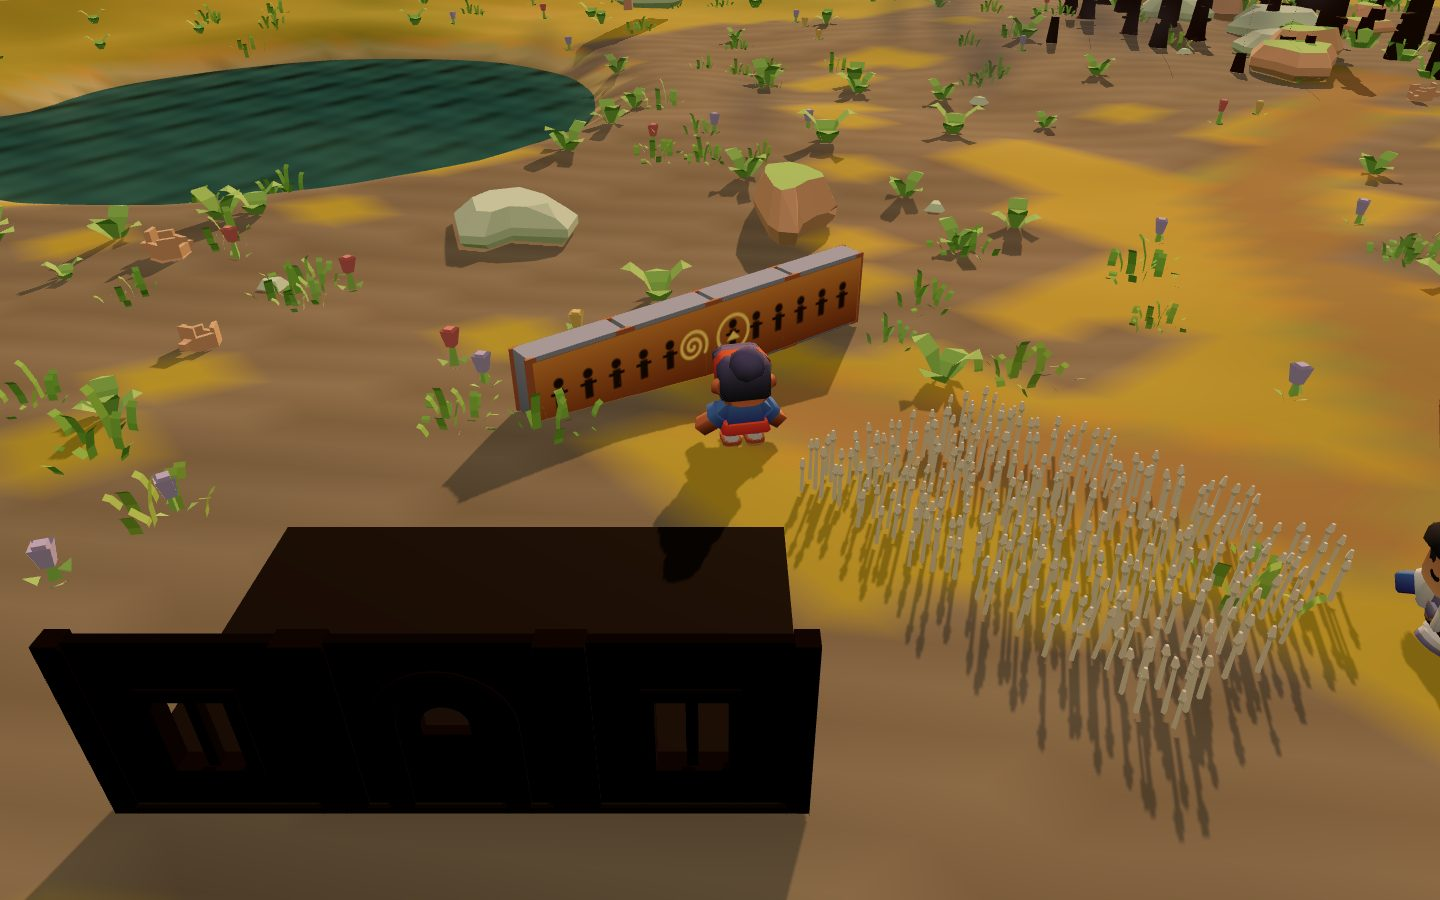
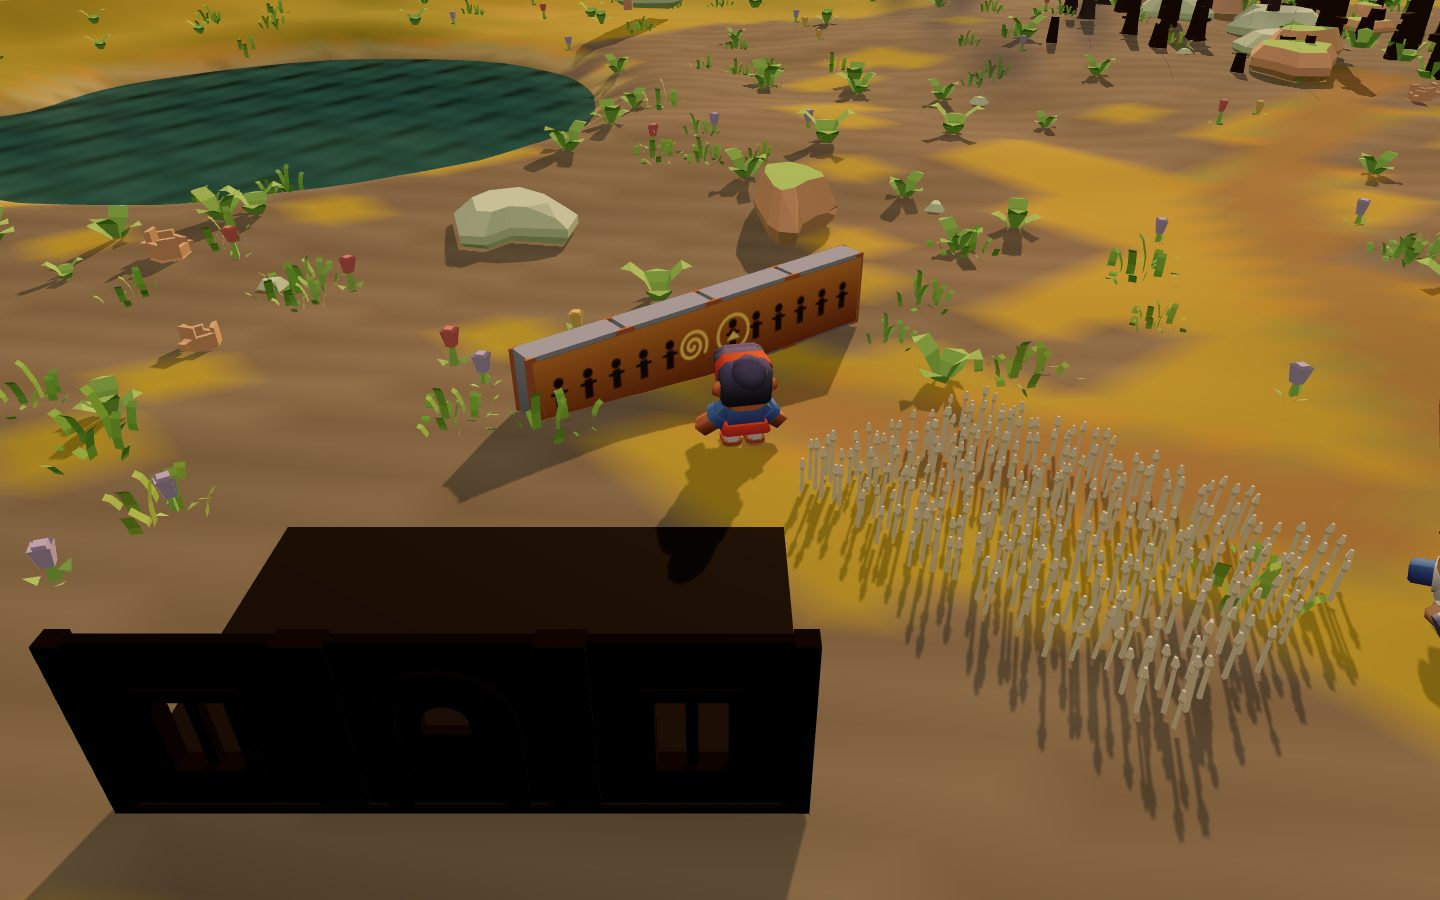
WIP: m3-3 protects a standing house (the day-5 wildfire can take house 2 first); BUILD_PROGRESS.md

Changed region(s): [[0.9688, 0.5911, 1.0, 0.7467], [0.5, 0.3733, 0.5625, 0.4978]]

diff --git a/game/e2e/m3.spec.ts b/game/e2e/m3.spec.ts
@@ -114,7 +114,7 @@ test("m3-2 the shrine: the hand carries the bell stone to the altar, the Rain gl
 
 test("m3-3 the painted wall: believing villagers paint it, the god studies it, and Sanctuary shields a house from fire", async ({ page }) => {
   await boot(page);
-  // The villagers paint as they pray; let the days run (bounded at 4 days).
+  // The villagers paint as they pray; let the days run (bounded at 8 days; the day-5 wildfire may strike meanwhile).
   let v = await village(page);
   let days = 0;
   while (v.mural.progress < 1 && days < 8) {
@@ -130,17 +130,20 @@ test("m3-3 the painted wall: believing villagers paint it, the god studies it, a
   await page.mouse.move(m.x, m.y);
   await waitFor(page, `window.__parable.village().learned.includes("sanctuary")`, 60_000);
   const learned = await village(page);
-  // A wildfire comes at house 2; raise Sanctuary over it first.
+  // A wildfire comes at a standing house; raise Sanctuary over it first.
+  const pre = await village(page);
+  const house = pre.houses.find((x: P) => x.state === "standing" && x.id !== 0) ?? pre.houses.find((x: P) => x.state === "standing");
   await hook(page, "setPower", 100);
-  await hook(page, "setDay", 8, 0.2);
-  await hook(page, "setCamera", { tx: 5, tz: 30, yaw: 0.6, dist: 36 });
+  await hook(page, "setDay", 8, 0.6);
+  await hook(page, "setCamera", { tx: house.x, tz: house.z + 3, yaw: 0.6, dist: 36 });
   await frames(page, 3);
-  const h = await hook<{ x: number; y: number }>(page, "groundScreen", 5, 27);
+  const h = await hook<{ x: number; y: number }>(page, "groundScreen", house.x, house.z);
   await ritual(page, h.x, h.y, ringPts(h.x, h.y, 90));
   await waitFor(page, `window.__parable.village().sanctuaries.length > 0`, 20_000);
-  const sanct = (await village(page)).sanctuaries[0];
-  await hook(page, "igniteAt", 5, 40, 3);
-  await hook(page, "igniteAt", -6, 27, 3);
+  const atCast = await village(page);
+  const sanct = atCast.sanctuaries[0];
+  await hook(page, "igniteAt", house.x, house.z + 13, 3);
+  await hook(page, "igniteAt", house.x - 11, house.z, 3);
   await hook(page, "stepTicks", 200);
   await frames(page, 4);
   await shot(page, "m3-03-sanctuary-holds-the-fire");
@@ -148,11 +151,12 @@ test("m3-3 the painted wall: believing villagers paint it, the god studies it, a
   const after = await village(page);
   const ss: P[] = await hook(page, "settlers");
   const causes = ss.flatMap((s) => s.belief.causes.map((c: P) => `${s.name}: ${c.text}`));
-  writeResult("m3-03-mural-sanctuary", { daysToPaint: days, mural: v.mural, learned: learned.learned, sanctuary: sanct, houses: after.houses, causes });
+  writeResult("m3-03-mural-sanctuary", { daysToPaint: days, mural: v.mural, learned: learned.learned, protected: house, sanctuary: sanct, housesAtCast: atCast.houses, houses: after.houses, causes, log: (await state(page)).log.filter((l: string) => /house|lightning|ignite|sanctuary/.test(l)) });
   expect(v.mural.progress).toBeGreaterThanOrEqual(1);
   expect(learned.learned).toContain("sanctuary");
-  expect(Math.hypot(sanct.x - 5, sanct.z - 27)).toBeLessThan(6);
-  expect(after.houses.find((x: P) => x.id === 2).state).toBe("standing");
+  expect(Math.hypot(sanct.x - house.x, sanct.z - house.z)).toBeLessThan(6);
+  expect(atCast.houses.find((x: P) => x.id === house.id).state).toBe("standing");
+  expect(after.houses.find((x: P) => x.id === house.id).state).toBe("standing");
   expect(causes.some((c) => /sanctuary/.test(c))).toBe(true);
 });
 

diff --git a/game/src/main.ts b/game/src/main.ts
@@ -896,7 +896,7 @@ async function boot(): Promise<void> {
         learned: world.learned.slice(),
         food: world.granary.food,
         woodpile: world.woodpile.count,
-        houses: world.houses.map((h) => ({ id: h.id, state: h.state })),
+        houses: world.houses.map((h) => ({ id: h.id, state: h.state, x: h.x, z: h.z })),
         sites: world.sites.map((x) => ({ id: x.id, have: x.have, need: x.need, work: x.work, done: x.done })),
         felled: world.felled.length,
         clouds: world.clouds.map((c) => ({ id: c.id, x: c.x, z: c.z, held: c.held, ttl: c.ttl })),

diff --git a/game/BUILD_PROGRESS.md b/game/BUILD_PROGRESS.md
@@ -1,0 +1,27 @@
+# Build progress (M2 → ten miracles + golems) (handoff note — update every push)
+
+Branch `feat/m1-hand-camera-fireball` (PR #1). Never push to main, never force-push. No creatures/golems.
+
+## Done
+- 0d635c8 Stage 1: village sim (12 settlers, needs, jobs, relationships, memories, belief causes),
+  Dry Year (drought, wind, day-5 lightning, fire crisis, burn/ruin/rebuild), Rain via shrine + bell stone,
+  Sanctuary via mural, temple plaques/brazier/records, end card + restart. 35 unit tests; M1 e2e 8/8 in `&scenario=solo`.
+- e2e specs written: e2e/m2.spec.ts, m3.spec.ts, m4.spec.ts.
+- m2-1..m2-4 PASS, m3-1..m3-4 PASS (each run individually; full gate not yet re-run).
+- Scope expanded by the user: TEN miracles + GOLEM system (no creature). Gestures for all ten done
+  (spiral then: zigzag Fireball, wave Rain, ring Sanctuary, V Heal, line-down Lightning, line-up Fertility,
+  line-side Wind, square Stone, ^ Beacon, triangle Golem Wake) with unit tests.
+- Sim for heal/lightning/fertility/wind/stone/beacon + glyph stones (rituals wake them) in src/sim/miracles.ts.
+
+## Next
+1. src/sim/golems.ts: form from 4 logs in the golem ring (36,34); Golem Wake wakes; job from where the hand drops it
+   (woodpile → haul loose logs, site → carry wood to build, well → douse); slow; upkeep drains prayer power; never casts.
+2. Unit tests for miracles + golems; render (glyph stones, beacon pillar, stone ring, golem view, heal/wind particles);
+   main.ts cast routing for all ten + learning (glyph stones; Beacon + Golem Wake taught in the temple).
+3. e2e m5 spec (miracles) + m6 (golems); then full gate.
+4. Run m4.spec.ts (full Dry Year → end card → records → restart; losing branch; village save/load; perf); fix; gate.
+4. Update HUMAN_GATE checklist (M2–M4), README, evidence RESULTS, append Parable_Bible entry, PR description.
+
+## How to iterate fast
+- `npx vite build && PW_CHROMIUM_PATH=/usr/bin/google-chrome npx playwright test e2e/m2.spec.ts -g m2-4`
+- Headless village sim: `npx vite-node /workspace/scratch/vsim.ts <days> <seed>` (scratch may be gone on a fresh box).
